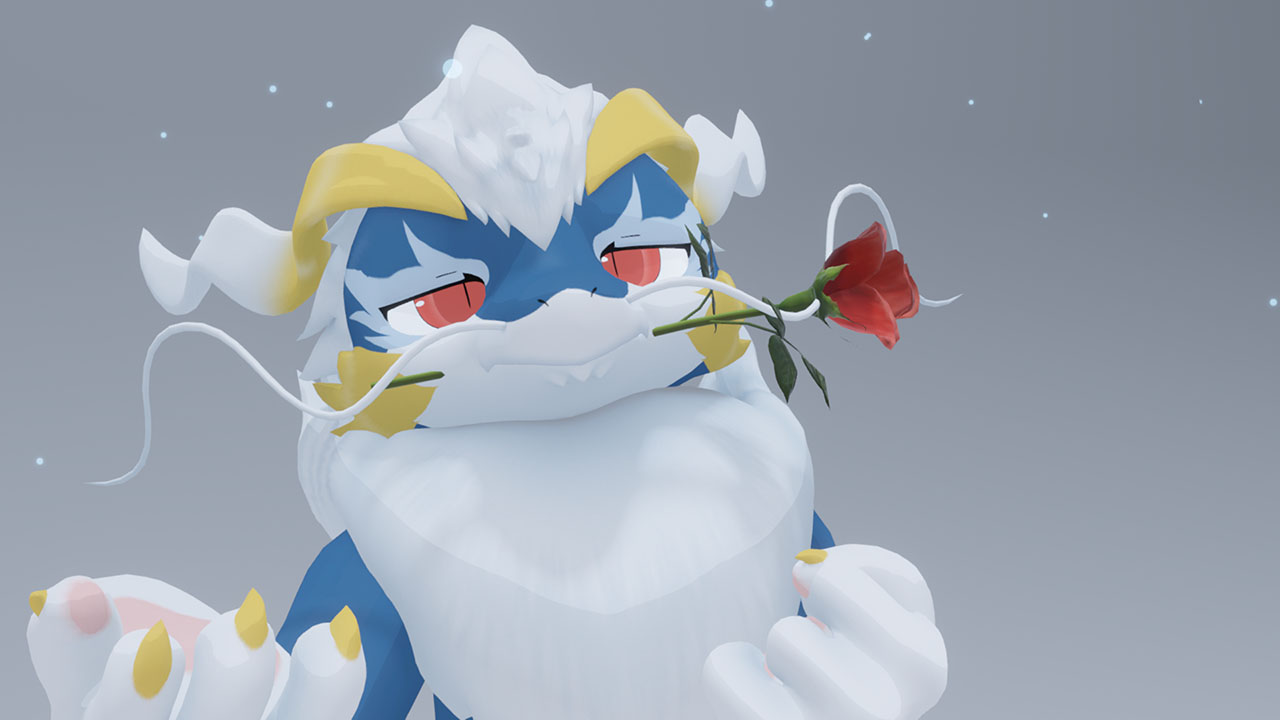
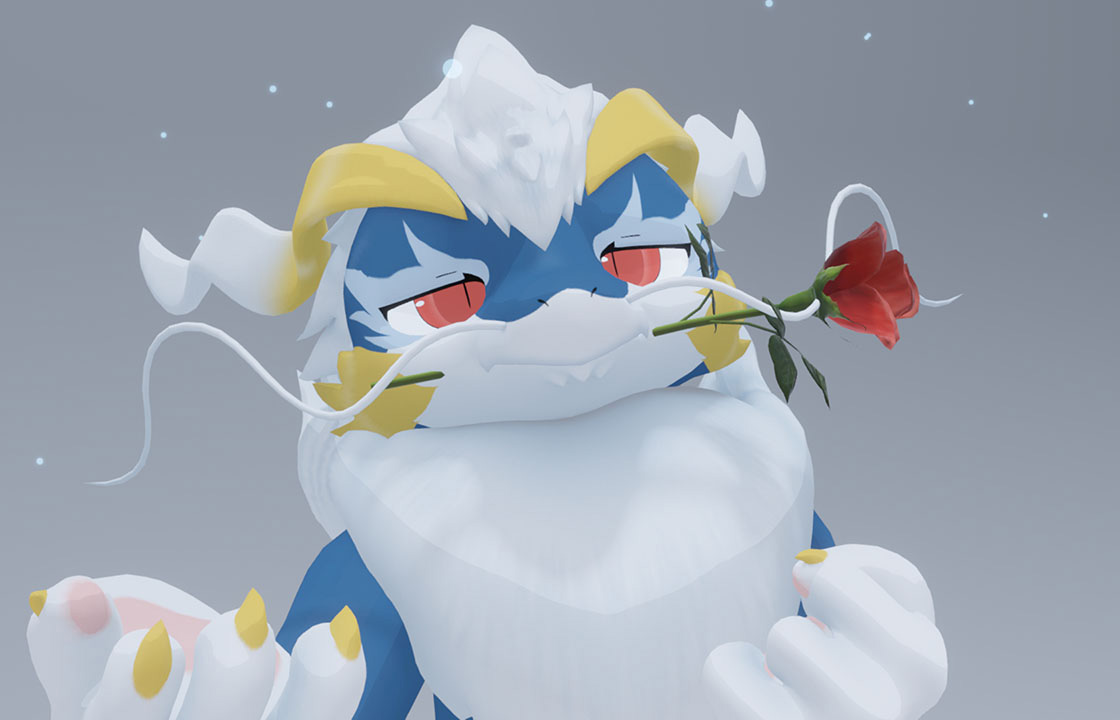
Change chara pic, change image ratio

diff --git a/src/components/Pages/HomePage/CharacterSection.tsx b/src/components/Pages/HomePage/CharacterSection.tsx
@@ -9,7 +9,7 @@ export const CharacterSection = () => {
     return (
         <section>
             <Row>
-                <Col md={8}>
+                <Col md={7} className="mb-3 mb-md-0">
                     <h2>
                         <FormattedMessage id="index.aboutChara.title" />
                     </h2>
@@ -20,12 +20,13 @@ export const CharacterSection = () => {
                         <FormattedMessage id="index.aboutChara.refSheet" />
                     </Link>
                 </Col>
-                <Col md={4}>
+                <Col md={5}>
                     <Figure>
                         <StaticImage
-                            src="../../../images/index-chara.jpg"
-                            sizes="(min-width: 768px) 35vw, 100vw"
+                            src="../../../images/index-chara3.png"
+                            sizes="(min-width: 768px) 40vw, 100vw"
                             alt={formatMessage({ id: 'index.aboutChara.imageAlt' })}
+                            placeholder="none"
                         />
                         <Figure.Caption>
                             <FormattedMessage
@@ -33,11 +34,12 @@ export const CharacterSection = () => {
                                 values={{
                                     link: (
                                         <a
-                                            href="https://www.facebook.com/profile.php?id=100077583383830"
+                                            href="https://twitter.com/R00mbAI1"
                                             rel="noreferrer noopener"
-                                            lang="zh-CN"
+                                            lang="ja"
+                                            aria-label="ルンバイ"
                                         >
-                                            骑士长
+                                            ノレンバイ
                                         </a>
                                     ),
                                 }}
